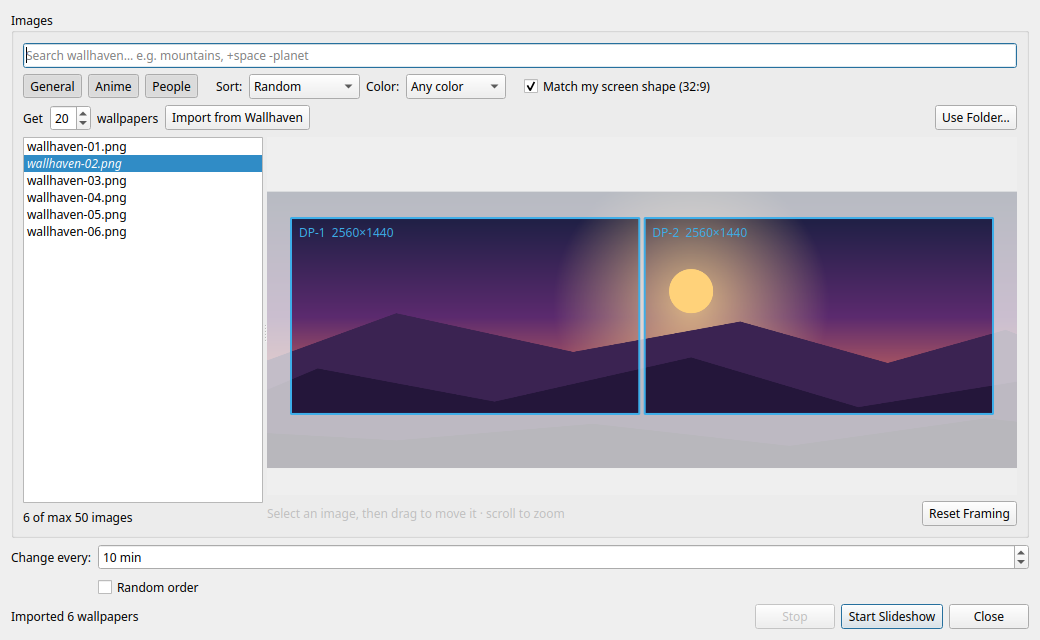
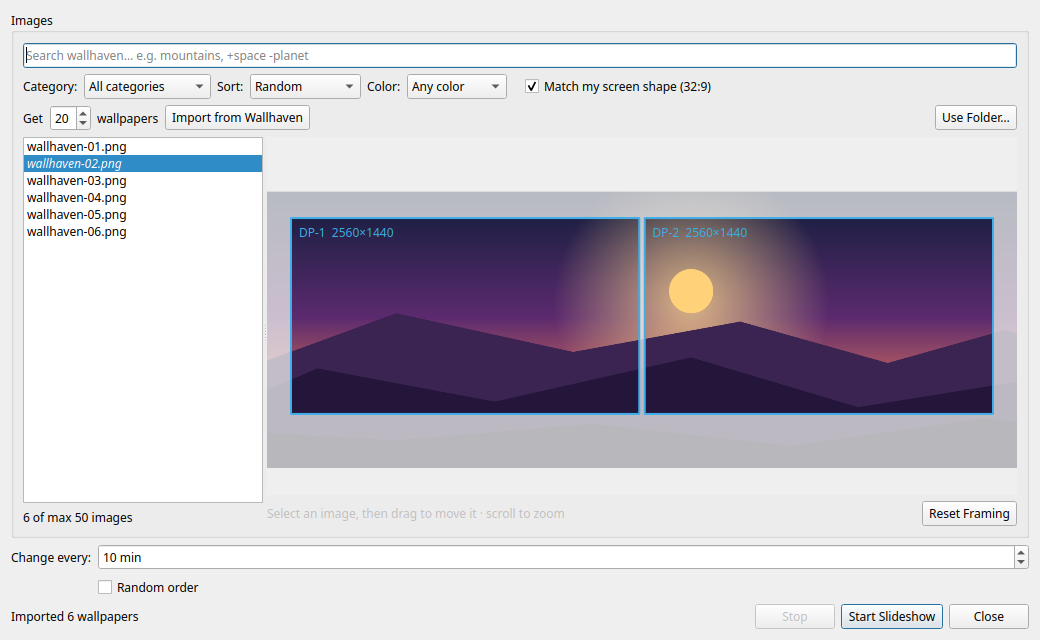
Use a Category dropdown instead of toggle buttons
The General/Anime/People toggles were easy to miss: all three start on
and Breeze barely shows their state. A dropdown like Sort and Color makes
the choice obvious, offers every combination, and searches as soon as it
changes. Saved filters and the CLI are unchanged.

Changed region(s): [[0.0, 0.0938, 0.3077, 0.1562], [0.4923, 0.125, 0.7077, 0.1562], [0.3385, 0.125, 0.4615, 0.1562]]

diff --git a/src/wallstitch/filter_bar.py b/src/wallstitch/filter_bar.py
@@ -13,12 +13,22 @@ from PySide6.QtWidgets import (
     QLabel,
     QLineEdit,
     QPushButton,
-    QToolButton,
     QVBoxLayout,
     QWidget,
 )
 
 from wallstitch.wallhaven import CATEGORIES, COLORS, SORTS, SearchFilters, best_ratio
+
+# Category dropdown: label -> wallhaven category bits (general, anime, people)
+CATEGORY_CHOICES = {
+    "All categories": "111",
+    "General": "100",
+    "Anime": "010",
+    "People": "001",
+    "General + Anime": "110",
+    "General + People": "101",
+    "Anime + People": "011",
+}
 
 
 def _swatch(hex_color: str) -> QIcon:
@@ -42,13 +52,10 @@ class FilterBar(QWidget):
         self.query.returnPressed.connect(self.searchRequested)
         self.query.textChanged.connect(self.filtersChanged)
 
-        self.category_buttons: dict[str, QToolButton] = {}
-        for name in CATEGORIES:
-            btn = QToolButton()
-            btn.setText(name.capitalize())
-            btn.setCheckable(True)
-            btn.toggled.connect(self.filtersChanged)
-            self.category_buttons[name] = btn
+        self.category = QComboBox()
+        for label, bits in CATEGORY_CHOICES.items():
+            self.category.addItem(label, bits)
+        self.category.currentIndexChanged.connect(self.filtersChanged)
 
         self.sort = QComboBox()
         self.sort.addItems(list(SORTS))
@@ -81,9 +88,8 @@ class FilterBar(QWidget):
 
         bottom = QHBoxLayout()
         bottom.setContentsMargins(0, 0, 0, 0)
-        for btn in self.category_buttons.values():
-            bottom.addWidget(btn)
-        bottom.addSpacing(12)
+        bottom.addWidget(QLabel("Category:"))
+        bottom.addWidget(self.category)
         bottom.addWidget(QLabel("Sort:"))
         bottom.addWidget(self.sort)
         bottom.addWidget(QLabel("Color:"))
@@ -100,23 +106,23 @@ class FilterBar(QWidget):
         self.set_filters(SearchFilters.load())
 
     def filters(self) -> SearchFilters:
+        bits = self.category.currentData() or "111"
         return SearchFilters(
             query=self.query.text(),
             sort=self.sort.currentText(),
             color=self.color.currentData() or "",
             match_shape=self.match_shape.isChecked() and self.match_shape.isEnabled(),
-            **{name: btn.isChecked() for name, btn in self.category_buttons.items()},
+            **{name: bit == "1" for name, bit in zip(CATEGORIES, bits, strict=True)},
         )
 
     def set_filters(self, f: SearchFilters) -> None:
-        widgets = [self.query, self.sort, self.color, self.match_shape, *self.category_buttons.values()]
+        widgets = [self.query, self.category, self.sort, self.color, self.match_shape]
         for w in widgets:
             w.blockSignals(True)
         self.query.setText(f.query)
+        self.category.setCurrentIndex(max(0, self.category.findData(f.categories)))
         self.sort.setCurrentText(f.sort if f.sort in SORTS else "Random")
         self.color.setCurrentIndex(max(0, self.color.findData(f.color)))
         self.match_shape.setChecked(f.match_shape)
-        for name, btn in self.category_buttons.items():
-            btn.setChecked(getattr(f, name))
         for w in widgets:
             w.blockSignals(False)

diff --git a/tests/test_search.py b/tests/test_search.py
@@ -108,6 +108,39 @@ def test_cli_defaults_ignore_saved_gui_filters(tmp_path, monkeypatch):
     assert _filters_from(build_parser().parse_args(["fetch", "3"])) == SearchFilters()
 
 
+@pytest.fixture
+def qapp():
+    pytest.importorskip("PySide6")
+    from PySide6.QtWidgets import QApplication
+
+    return QApplication.instance() or QApplication([])
+
+
+def test_category_dropdown_round_trips_every_choice(qapp, tmp_path, monkeypatch):
+    monkeypatch.setenv("XDG_CONFIG_HOME", str(tmp_path))
+    from wallstitch.filter_bar import CATEGORY_CHOICES, FilterBar
+
+    bar = FilterBar((5120, 1440))
+    for label, bits in CATEGORY_CHOICES.items():
+        bar.category.setCurrentText(label)
+        f = bar.filters()
+        assert f.categories == bits
+        bar.set_filters(SearchFilters())
+        bar.set_filters(f)
+        assert bar.category.currentText() == label
+
+
+def test_category_dropdown_reports_changes(qapp, tmp_path, monkeypatch):
+    monkeypatch.setenv("XDG_CONFIG_HOME", str(tmp_path))
+    from wallstitch.filter_bar import FilterBar
+
+    bar = FilterBar((5120, 1440))
+    changes = []
+    bar.filtersChanged.connect(lambda: changes.append(1))
+    bar.category.setCurrentText("Anime")
+    assert changes and bar.filters().params()["categories"] == "010"
+
+
 def test_cli_rejects_colors_wallhaven_does_not_have():
     with pytest.raises(SystemExit):
         build_parser().parse_args(["fetch", "3", "--color", "123456"])

diff --git a/src/wallstitch/wallhaven_dialog.py b/src/wallstitch/wallhaven_dialog.py
@@ -57,10 +57,10 @@ class WallhavenDialog(QDialog):
         self._refilter.timeout.connect(self.new_search)
         # Typing only searches on Enter; clicking a filter searches by itself.
         for signal in (
+            self.filter_bar.category.currentIndexChanged,
             self.filter_bar.sort.currentIndexChanged,
             self.filter_bar.color.currentIndexChanged,
             self.filter_bar.match_shape.toggled,
-            *(b.toggled for b in self.filter_bar.category_buttons.values()),
         ):
             signal.connect(self._refilter.start)
 

diff --git a/CHANGELOG.md b/CHANGELOG.md
@@ -8,7 +8,7 @@ All notable changes to WallStitch are documented here. The format follows
 
 ### Added
 - Search and filters for wallhaven.cc: keywords (including `+tag -tag`),
-  General/Anime/People categories, sort order (random, relevance, most
+  a category dropdown (General, Anime, People or any mix), sort order (random, relevance, most
   favorited, top this year, most viewed, newest, hot), color, and a "Match my
   screen shape" toggle. Shared by the picker and the slideshow import, and
   remembered between sessions.
